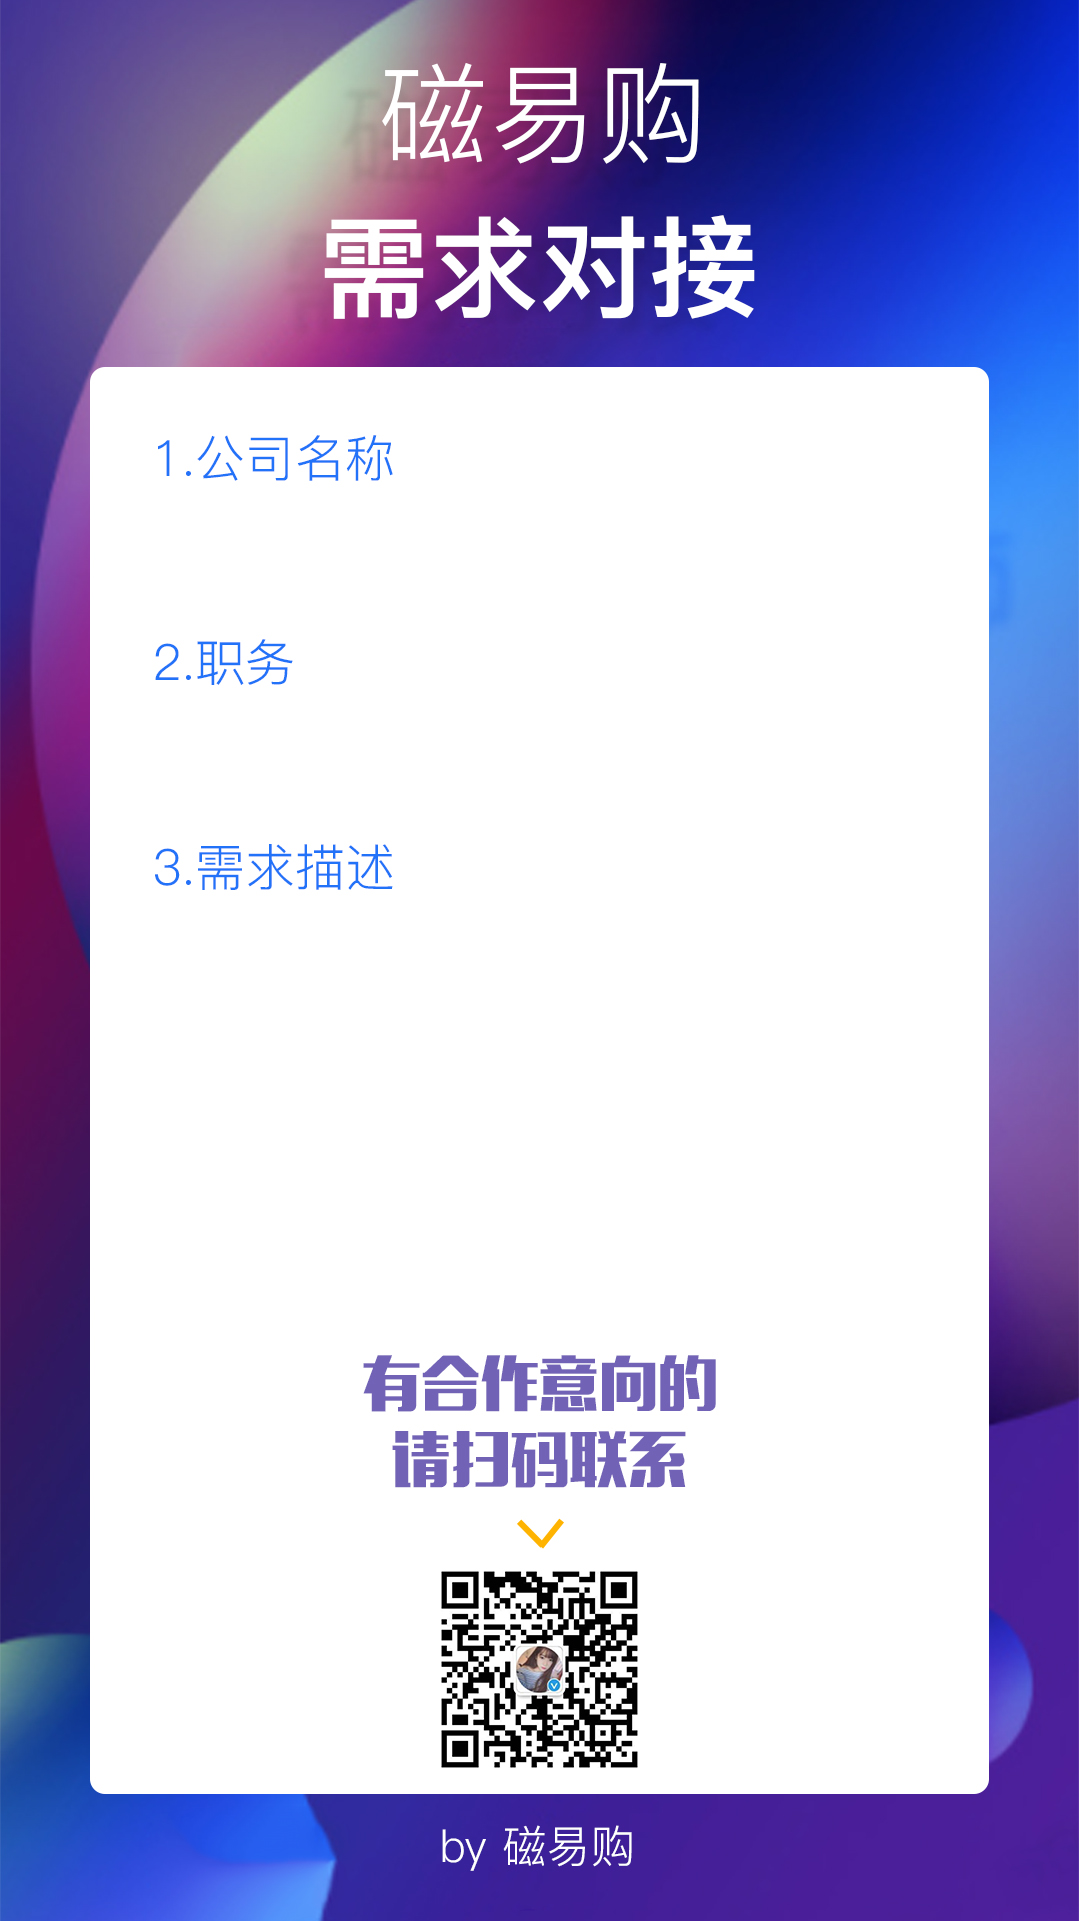
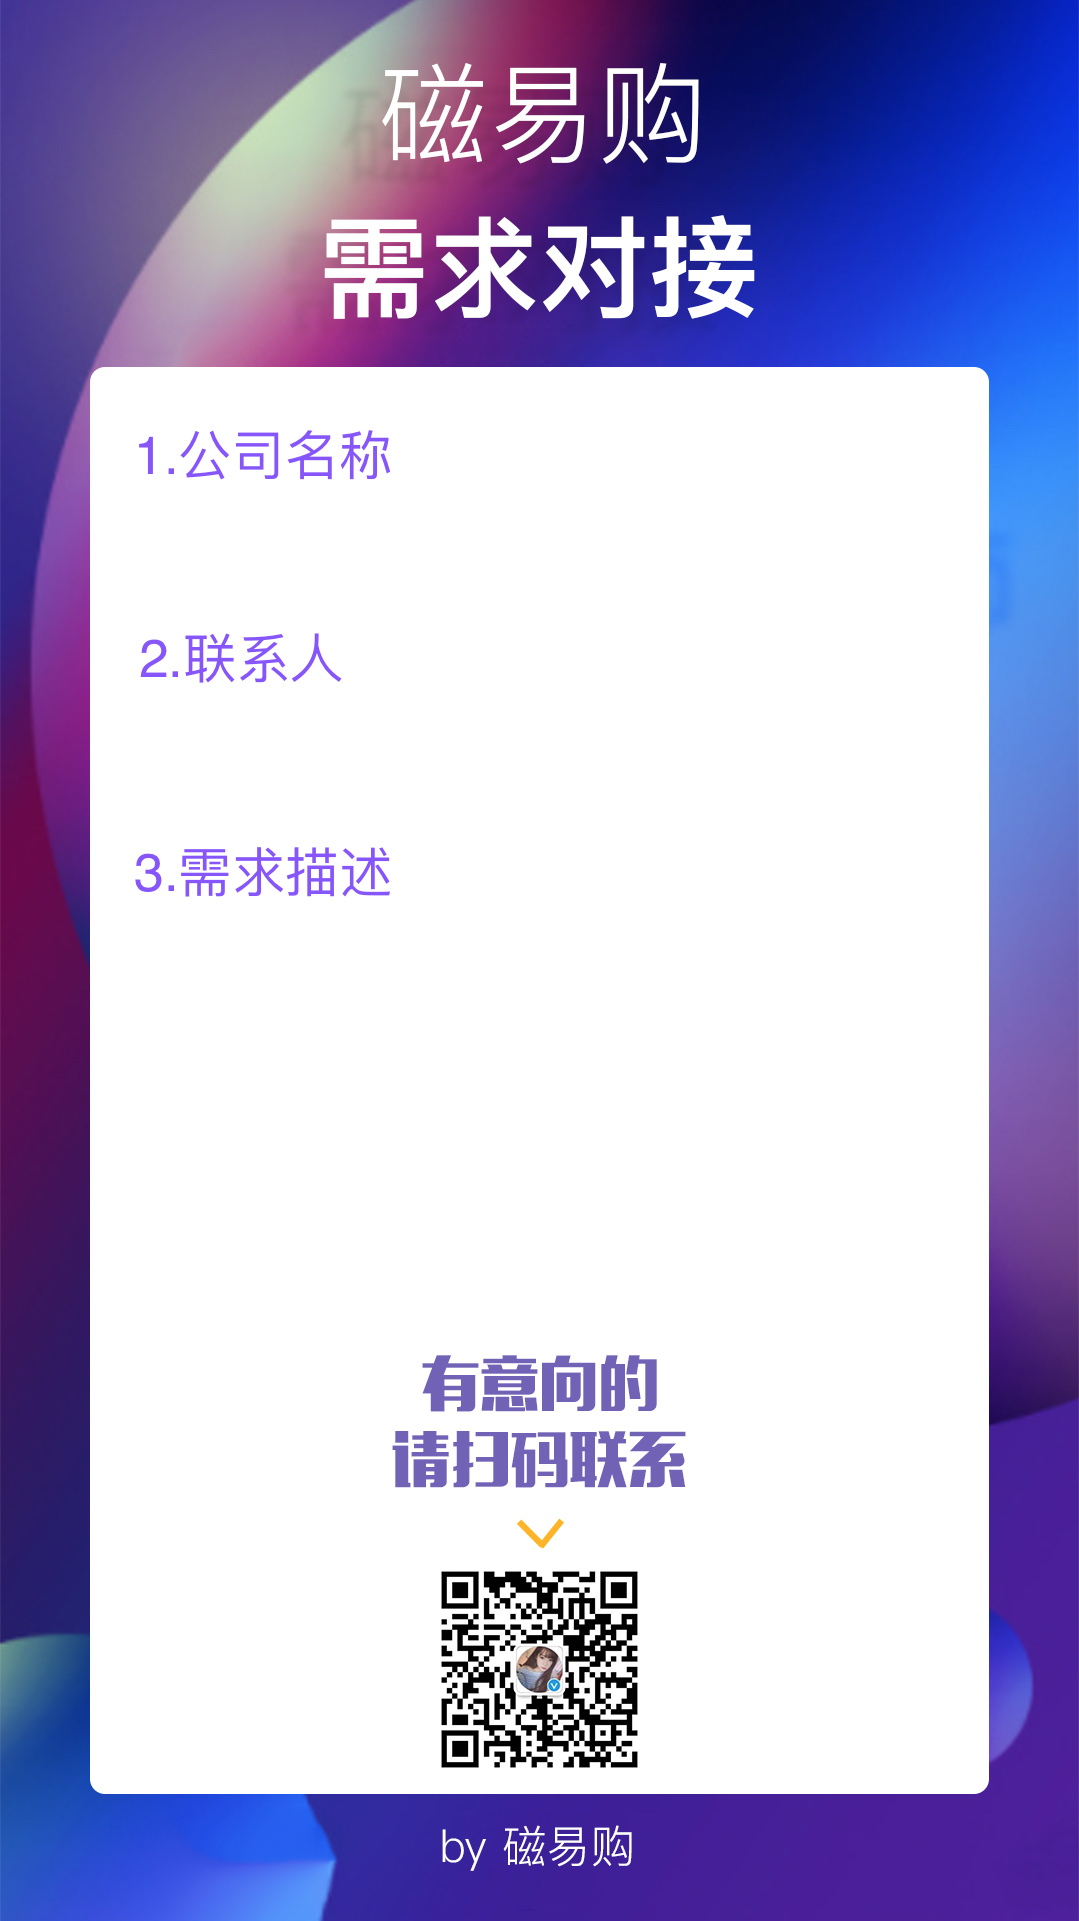
update

diff --git a/supply.py b/supply.py
@@ -1,0 +1,27 @@
+# -*- coding: utf-8 -*-
+
+from PIL import Image,ImageDraw,ImageFont
+from xlrd import open_workbook
+import datetime
+
+today = datetime.date.today().strftime("%Y-%m-%d")
+print today
+filename = '磁易购【服务需求对接表】-表单反馈导出_%s.xlsx' % today
+wb = open_workbook(filename)
+ttfont = ImageFont.truetype("/Library/Fonts/微软雅黑.ttf",40)
+
+for s in wb.sheets():
+	for row in range(2,s.nrows-3):
+		values = []
+		for col in range(s.ncols):
+			values.append(s.cell(row,col).value)
+		print values
+		im = Image.open("template.jpg")  
+		draw = ImageDraw.Draw(im)
+		draw.text((161,534),values[5], fill=(0,0,0),font=ttfont)  
+		draw.text((161,735),values[2], fill=(0,0,0),font=ttfont)
+		draw.text((161,935),values[7], fill=(0,0,0),font=ttfont)
+		draw.text((880,1700),values[0], fill=(0,0,0),font=ttfont)
+		save_filename = u'%s需求%s.jpg' % (values[2],values[0])
+		im.save(save_filename)
+		values = []

diff --git a/need.py b/need.py
@@ -19,7 +19,7 @@ for s in wb.sheets():
 		im = Image.open("template.jpg")  
 		draw = ImageDraw.Draw(im)
 		draw.text((161,534),values[5], fill=(0,0,0),font=ttfont)  
-		draw.text((161,735),values[6], fill=(0,0,0),font=ttfont)
+		draw.text((161,735),values[2], fill=(0,0,0),font=ttfont)
 		draw.text((161,935),values[7], fill=(0,0,0),font=ttfont)
 		draw.text((880,1700),values[0], fill=(0,0,0),font=ttfont)
 		save_filename = u'%s需求%s.jpg' % (values[2],values[0])
